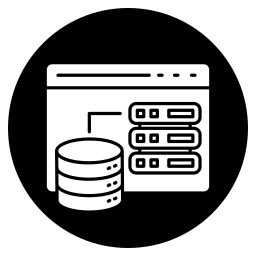
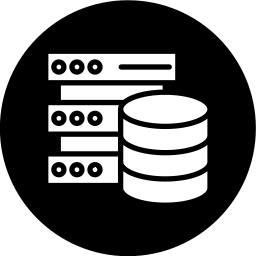
passage en Français

diff --git a/index.html b/index.html
@@ -1,5 +1,5 @@
 <!doctype html>
-<html lang="en">
+<html lang="fr">
 <head>
   <meta charset="utf-8">
   <title>Florian | Portfolio</title>
@@ -18,12 +18,12 @@
           <span id="discordCopiedMessage" class="copied-message">Lien Discord copié !</span>
       </div>
       <div class="logo-container-sticky">
-          <a href="https://github.com/florianppn"><img src="./asset/logo/kickman.png" alt="logo"></a>
+          <a href="https://github.com/florianppn" target="_blank"><img src="./asset/logo/kickman.png" alt="logo"></a>
       </div>
       <ul>
-          <li><a href="#about">ABOUT</a></li>
-          <li><a href="#skills">SKILLS</a></li>
-          <li><a href="#works">WORKS</a></li>
+          <li><a href="#about">PROFIL</a></li>
+          <li><a href="#skills">COMPÉTENCES</a></li>
+          <li><a href="#works">PROJETS</a></li>
           <li><a href="#contact">CONTACT</a></li>
       </ul>
   </nav>
@@ -31,61 +31,61 @@
   <section id="about">
     <div class="about">
       <h2 class="title">Hello World !</h2>
-      <span>I'm Florian Pépin and I'm a computer science student.</span>
+      <span>Je m'appelle Florian Pépin et je suis étudiant en informatique.</span>
       <br>
-      <span>I'm passionate about software development and cybersecurity.</span>
+      <span>Je suis passionné par le développement logiciel et la cybersécurité.</span>
       <br>
-      <span>I would like to continue my studies in software.</span>
+      <span>J'aimerais poursuivre mes études en développement logiciel.</span>
     </div>
   </section>
 
   <section id="skills">
-    <h2 class="title">MY SKILLS</h2>
+    <h2 class="title">MES COMPÉTENCES</h2>
     <div class="skills-container">
       <div class="skill-item">
         <figure>
           <img class="skill-logo" src="./asset/icones/java.png" alt="logo java">
           <h3>Java</h3>
         </figure>
-        <p>Development of robust and efficient Java applications. Use of solutions based on advanced data structures. My mastery of Design Patterns and algorithms allows me to design scalable and maintainable software architectures.</p>
+        <p>Développement d'applications Java robustes et efficaces. Utilisation de solutions basées sur des structures de données avancées. Ma maîtrise des Design Patterns et des algorithmes me permet de concevoir des architectures logicielles évolutives et maintenables.</p>
       </div>
       <div class="skill-item">
         <img class="skill-logo" src="./asset/icones/python.png" alt="logo python">
         <h3>Python</h3>
-        <p>Fast and efficient development of Python applications, from interactive games to data analysis tools. My expertise covers data structures, Design Patterns and the implementation of complex algorithms.</p>
+        <p>Développement rapide et efficace d'applications Python, des jeux interactifs aux outils d'analyse de données. Mon expertise couvre les structures de données, les Design Patterns et la mise en œuvre d'algorithmes complexes.</p>
       </div>
       <div class="skill-item">
         <img class="skill-logo" src="./asset/icones/php.png" alt="logo php">
         <h3>PHP</h3>
-        <p>Development of dynamic web applications with PHP, using the MVCR architecture for clear organization and easy maintenance. My mastery of DOM manipulation and database management (MySQL, PostgreSQL) allows me to create rich and interactive user experiences.</p>
+        <p>Développement d'applications web dynamiques avec PHP, utilisant l'architecture MVCR pour une organisation claire et une maintenance aisée. Ma maîtrise de la manipulation DOM et de la gestion de bases de données (MySQL, PostgreSQL) me permet de créer des expériences utilisateur riches et interactives.</p>
       </div>
       <div class="skill-item">
-        <img class="skill-logo" src="./asset/icones/postgre.png" alt="logo postgre">
-        <h3>PostgreSQL</h3>
-        <p>Management and optimization of PostgreSQL databases, guaranteeing data integrity and performance. My expertise includes designing database schemas, writing complex SQL queries, and optimizing performance for web applications and data management systems.</p>
+        <img class="skill-logo" src="./asset/icones/database.png" alt="logo database">
+        <h3>Bases de données</h3>
+        <p>Gestion et optimisation de données, tant SQL que NoSQL. Mon parcours en 3e année de licence informatique m'a permis d'acquérir une solide base dans la conception de schémas de bases de données, l'écriture de requêtes SQL et l'exploration des concepts NoSQL.</p>
       </div>
     </div>
   </section>
 
   <section id="works">
     <div class="works-container">
-      <h2 class="title">MY WORKS</h2>
+      <h2 class="title">MES PROJETS</h2>
       <div class="carousel-container">
         <div class="carousel">
             <div class="work-item">
                 <h3>Mahjong</h3>
                 <img src="./asset/works/mahjong.png" alt="mahjong">
-                <p>Mahjong game (simplified version) implemented in Python using the Tkinter library. For this project I used the MVC architecture as well as the observer pattern. I also used the pattern strategy for the different types of grids (diamond, rectangle, donut, ...,).</p>
+                <p>Jeu du Mahjong (version simplifiée) implémenté en Python avec la bibliothèque graphique Tkinter. Pour ce projet j'ai utilisé l'architecture MVC ainsi que le pattern observateur. J'ai également utilisé le pattern strategy pour les différents types de grilles (losange, rectangle, beignet, ...,).</p>
             </div>
             <div class="work-item">
                 <h3>Taquin</h3>
                 <img src="./asset/works/taquin.png" alt="taquin">
-                <p>Taquin game implemented in Java using the Swing graphics library. For this project I used the MVC architecture as well as the observer pattern.</p>
+                <p>Jeu du Taquin implémenté en Java avec la bibliothèque graphique Swing. Pour ce projet j'ai utilisé l'architecture MVC ainsi que le pattern observateur.</p>
             </div>
             <div class="work-item">
                 <h3>Gridarena</h3>
                 <img src="./asset/works/gridarena.png" alt="gridarena">
-                <p>This fighting game relies on strategic turn-based mechanics, where players must use tactics and planning to survive and eliminate opponents. For this project I use the MVC architecture as well as the Observer pattern. In this project I also use the Strategy pattern, the Proxy pattern, the Factory Method pattern, and the Adapter pattern.</p>
+                <p>Ce jeu de combat s'appuie sur des mécanismes stratégiques au tour par tour, dans lesquels les joueurs doivent utiliser des tactiques et de la planification pour survivre et éliminer leurs adversaires. Pour ce projet j'utilise l'architecture MVC ainsi que le pattern Observer. Dans ce projet, j'utilise également le pattern Strategy, le pattern Proxy, le pattern Factory Method et le pattern Adapter.</p>
             </div>
         </div>
         <button class="carousel-prev"><img src="./asset/icones/left.png" alt="left"></button>
@@ -95,7 +95,7 @@
   </section>
 
   <section id="contact">
-    <h3 class="title">CONTACT ME</h3>
+    <h3 class="title">ME CONTACTER</h3>
     <div>
       <span>blabla</span>
     </div>
